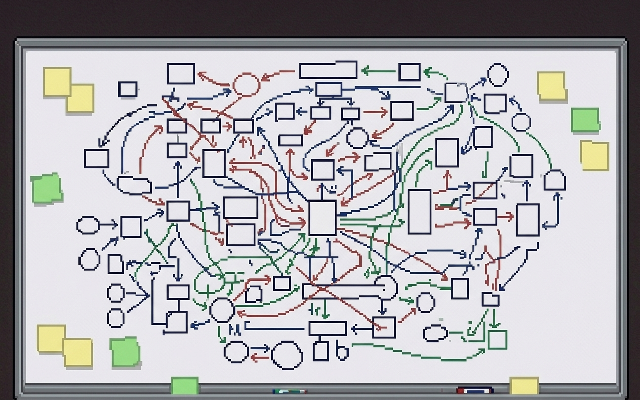
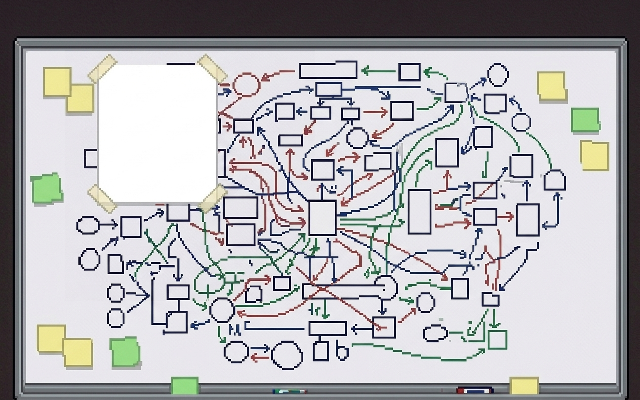
art: room-ch2 board sheet, fixed path, win frame (2026-11-13)
Claude-Session: https://claude.ai/code/session_014bw7Voj6ZyqA75pqeRWNHh

Changed region(s): [[0.125, 0.12, 0.375, 0.54], [0.4375, 0.6, 0.4688, 0.63]]

diff --git a/art-drops/2026-11-12-room-ch2/HANDBACK.md b/art-drops/2026-11-12-room-ch2/HANDBACK.md
@@ -9,7 +9,9 @@ From `briefs/art/01-rooms-2-5.md` (room 2) and `briefs/art/02-persona-cards.md` 
 | `R2_war_room.png` | Room plate |
 | `R2_npc_talk_1.png`, `R2_npc_talk_2.png` | Talking: the frames to loop while he speaks |
 | `R2_npc_look.png`, `R2_npc_scratch.png`, `R2_npc_mark.png` | Idle: turned to the board studying it; scratching his head; making a pen mark |
-| `R2_wall_closeup.png` | The whiteboard service map straight on |
+| `R2_wall_closeup.png` | The whiteboard service map straight on, with a **blank sheet of paper taped in the upper left** for the theory text (updated 2026-11-13) |
+| `R2_wall_closeup_fixed.png` | **New 2026-11-13.** The same close-up with one bold glowing yellow-green path traced through the tangle, left edge to right edge: the transfer path after the fix (`ch2.recovered`, `ch2.win`). The sheet stays blank. |
+| `R2_npc_win.png` | **New 2026-11-13.** Win frame: he caps his marker with both hands, a tired, relieved smile, glasses now on his face (`ch2.win`: "The Cloud Engineer caps his marker.") |
 | `R2_pc_closeup.png` | The hero's monitor on its arm, blank screen, blank sticky notes |
 | `P2_card.png` | Slayer of the Monolith: armour of server parts and cable, a wrench war hammer mid-swing, a boot on a cracked monolith with two red lights, a cable coiled on his arm, a cavern of green lights. Reads at 128×80. |
 
@@ -47,12 +49,25 @@ Box and circle centres on the close-up are not measured. If the code wants to dr
 
 Every NPC frame differs from the plate only inside **x 240–309, y 48–173** (his figure).
 
+
+## Updates for the revised script (2026-11-13)
+
+Cloud Claude rewrote chapter 2 around this drop; these changes fit the art to it:
+- **Theory text (`ch2.wall.stat.*`, `ch2.wall.ok.*`) goes on the taped sheet** in `R2_wall_closeup`: blank white area **x 49–107, y 32–100** (320×200). Dark ink reads well on it, like marker on paper. The sheet is the same in both close-ups.
+- **After the win,** show `R2_wall_closeup_fixed` instead of `R2_wall_closeup`. The path is painted in, so the code doesn't need to draw it or know node positions. It differs from `R2_wall_closeup` only along the path (roughly x 16–302, y 36–195).
+- **`R2_npc_win`** differs from the plate only inside **x 234–309, y 37–170**, inside the existing figure region.
+- **`ch2.json` fix needed:** its `patches.R2_war_room` is `x 239, y 48, w 70, h 90` (to y 138), but the NPC frames change down to **y 173**. Use **x 234, y 37, w 76, h 137** so the talk_2, look, scratch, mark and win frames aren't cut off at the waist.
+- **Script loose end:** `ch2.look.workstation` describes a separate workstation; the room has only the one desk.
+- **Brief 01's Room 2 section** still describes the old status wall, server cabinet and plug. The picture here is the current one.
+
 ## Flaws kept
 
 - **The PC close-up's screen is about 50% of the frame's width and 53% of its height**, below the brief's 60%.
 - **The whiteboard close-up** has a few boxes with ruled lines inside (like little documents). None are letters.
 
 ## Provenance
+
+- **2026-11-13 updates:** blank sheet: an edit of the close-up, 2 tries, t2 kept, its sheet area pasted in as a block. Fixed path: an edit of the sheet version, 2 tries, t1 kept, only the path and its glow composited. Win frame: an edit of the plate, 2 tries; t1 reframed the room, so t2 was kept, with only his figure composited. Script: `scratch/room_gen/gen_set.py` (`R2_wall_sheet`, `R2_wall_fixed`, `R2_npc_win`).
 
 - **Desk cans recoloured 2026-11-13:** the cans looked like a known energy drink up close. A Gemini edit of the plate made them plain green and orange with no labels; only the desk area (full res x 40–300, y 380–615; about x 10–76, y 89–148 at 320×200) was pasted back into the plate and all five NPC frames, so the frames still differ from the plate only in his figure.
 
